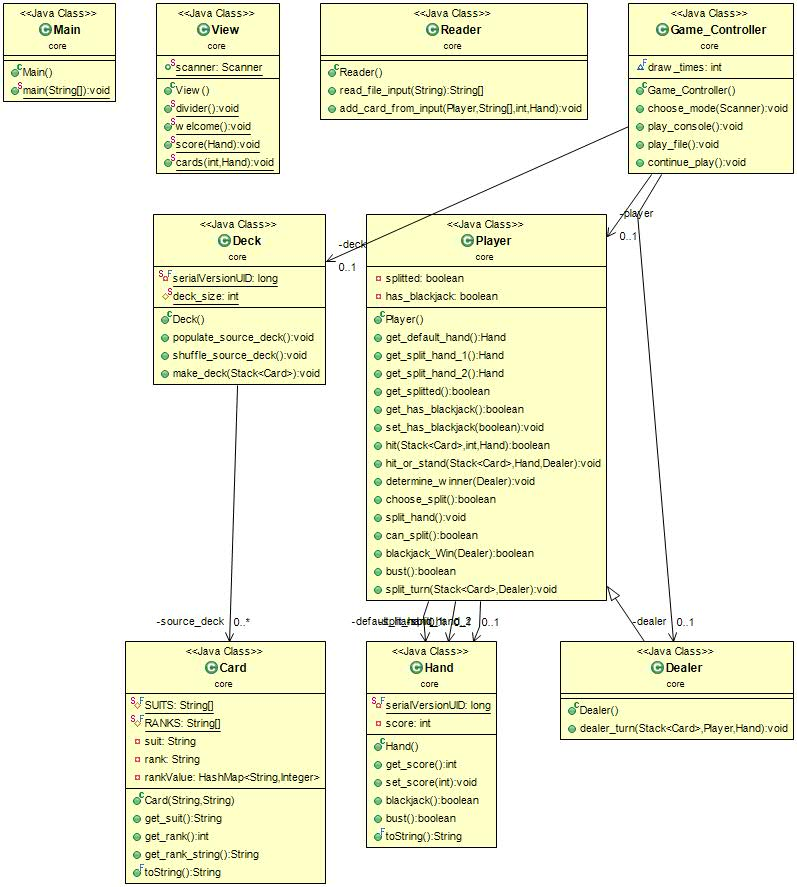
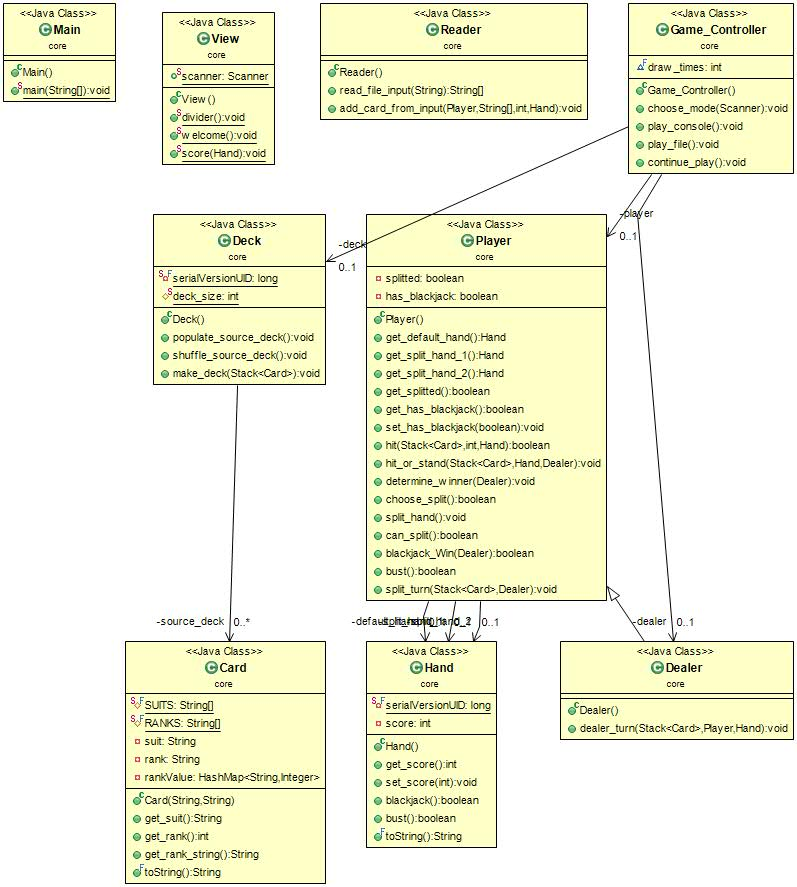
Refactor: View

Changed region(s): [[0.1807, 0.0, 0.3614, 0.2131]]

diff --git a/Maven_Project/src/main/java/core/Game_Controller.java b/Maven_Project/src/main/java/core/Game_Controller.java
@@ -55,14 +55,14 @@ public class Game_Controller {
 
 		// Player setup
 		player.hit(deck, draw_times, player.get_default_hand());
-		View.cards(draw_times, player.get_default_hand());
+		System.out.println(player.get_default_hand());
 
 		// Dealer setup
 		dealer.hit(deck, draw_times, dealer.get_default_hand());
-		View.cards(1, dealer.get_default_hand());
+		System.out.println("Dealer's face-up card is: " + dealer.get_default_hand().get(0).toString());
 
 		if(player.blackjack_Win(dealer)) {
-			View.cards(draw_times, dealer.get_default_hand());
+			System.out.println(dealer.get_default_hand());
 			continue_play();
 		}
 
@@ -77,7 +77,7 @@ public class Game_Controller {
 		else player.hit_or_stand(deck, player.get_default_hand(), dealer);
 
 		// Dealer's turn
-		View.cards(draw_times, dealer.get_default_hand());
+		System.out.println(dealer.get_default_hand());
 		if(dealer.can_split()) {
 			if(dealer.choose_split()) {
 				dealer.split_hand();
@@ -98,9 +98,8 @@ public class Game_Controller {
 	 * @throws FileNotFoundException
 	 * @throws IOException
 	 */
-	public void play_file() throws FileNotFoundException, IOException
-	{
-		// Variables
+	public void play_file() throws FileNotFoundException, IOException {
+		// Local variables
 		boolean stand = false;
 		player = new Player();
 		dealer = new Dealer();
@@ -122,7 +121,7 @@ public class Game_Controller {
 		}
 
 		// Interface output
-		View.cards(draw_times, player.get_default_hand());
+		System.out.println(player.get_default_hand());
 		View.score(player.get_default_hand());
 
 		// Draw dealer's first two cards
@@ -131,7 +130,7 @@ public class Game_Controller {
 		}
 
 		// Interface output
-		View.cards(draw_times, dealer.get_default_hand());
+		System.out.println(dealer.get_default_hand());
 		View.score(dealer.get_default_hand());
 
 		// Go through the rest of the input
@@ -144,24 +143,20 @@ public class Game_Controller {
 				stand = true;
 				continue;
 			}
-			else if(commands[i].charAt(0) == 'H' && commands[i].length() == 1){continue;}
+			else if(commands[i].charAt(0) == 'H' && commands[i].length() == 1) continue;
 			else if(commands[i].charAt(0) == 'D' && commands[i].length() == 1) {
 				// will have to add not to default hand
 				// maybe continue might come in handy
 			}
 
-			if(!stand) {
-				reader.add_card_from_input(player, commands, i, player.get_default_hand());
-			}
-			else {
-				reader.add_card_from_input(dealer, commands, i, dealer.get_default_hand());	
-			}
+			if(!stand) reader.add_card_from_input(player, commands, i, player.get_default_hand());
+			else reader.add_card_from_input(dealer, commands, i, dealer.get_default_hand());	
 		}
 
 		// Interface output
-		View.cards(player.get_default_hand().size(), player.get_default_hand());
+		System.out.println(player.get_default_hand());
 		View.score(player.get_default_hand());
-		View.cards(dealer.get_default_hand().size(), dealer.get_default_hand());
+		System.out.println(dealer.get_default_hand());
 		View.score(dealer.get_default_hand());
 
 		// End game

diff --git a/Maven_Project/src/test/java/core/Tests.java b/Maven_Project/src/test/java/core/Tests.java
@@ -170,7 +170,7 @@ public class Tests extends TestCase {
 		player_0.get_default_hand().add(ace_d);
 		player_0.get_default_hand().add(king_c);
 		
-		View.cards(2, player_0.get_default_hand());
+		System.out.println(player_0.get_default_hand());
 	}
 	
 	/**
@@ -184,7 +184,7 @@ public class Tests extends TestCase {
 		dealer_0.get_default_hand().add(two_s);
 		dealer_0.get_default_hand().add(nine_s);
 		
-		View.cards(1, dealer_0.get_default_hand());
+		System.out.println(dealer_0.get_default_hand());
 	}
 	
 	/**
@@ -242,7 +242,7 @@ public class Tests extends TestCase {
 		player_0.get_default_hand().add(two_s);
 		player_0.get_default_hand().add(six_s);
 		
-		View.cards(player_0.get_default_hand().size(), player_0.get_default_hand());
+		System.out.println(player_0.get_default_hand());
 	}
 	
 	/**
@@ -269,7 +269,7 @@ public class Tests extends TestCase {
 		
 		dealer_0.get_default_hand().add(ace_d);
 		dealer_0.get_default_hand().add(two_s);
-		View.cards(dealer_0.get_default_hand().size(), dealer_0.get_default_hand());
+		System.out.println(dealer_0.get_default_hand());
 		View.score(dealer_0.get_default_hand());
 		
 		deck_maker.make_deck(deck_1);
@@ -289,7 +289,7 @@ public class Tests extends TestCase {
 		dealer_0.get_default_hand().add(ace_d);
 		dealer_0.get_default_hand().add(six_s);
 		
-		View.cards(dealer_0.get_default_hand().size(), dealer_0.get_default_hand());
+		System.out.println(dealer_0.get_default_hand());
 		View.score(dealer_0.get_default_hand());
 		
 		deck_maker.make_deck(deck_1);
@@ -334,7 +334,7 @@ public class Tests extends TestCase {
 		dealer_0.get_default_hand().add(two_s);
 		dealer_0.get_default_hand().add(six_s);
 		
-		View.cards(dealer_0.get_default_hand().size(), dealer_0.get_default_hand());
+		System.out.println(dealer_0.get_default_hand());
 	}
 	
 	/**
@@ -571,7 +571,7 @@ public class Tests extends TestCase {
 		View.divider();
 		
 		player_0.get_default_hand().add(king_c);
-		View.cards(player_0.get_default_hand().size(), player_0.get_default_hand());
+		System.out.println(player_0.get_default_hand());
 		View.score(player_0.get_default_hand());
 		assertEquals(10, player_0.get_default_hand().get_score());
 	}
@@ -585,12 +585,12 @@ public class Tests extends TestCase {
 		View.divider();
 		
 		dealer_0.get_default_hand().add(five_d);
-		View.cards(dealer_0.get_default_hand().size(), dealer_0.get_default_hand());
+		System.out.println(dealer_0.get_default_hand());
 		View.score(dealer_0.get_default_hand());
 		
 		dealer_1.get_default_hand().add(eight_c);
 		dealer_1.get_default_hand().add(ace_d);
-		View.cards(dealer_1.get_default_hand().size(), dealer_1.get_default_hand());
+		System.out.println(dealer_1.get_default_hand());
 		View.score(dealer_1.get_default_hand());
 	}
 	

diff --git a/Maven_Project/src/main/java/core/Player.java b/Maven_Project/src/main/java/core/Player.java
@@ -64,7 +64,7 @@ public class Player {
 
 		while(!hand.bust() && !stand) {
 			// Interface output
-			View.cards(hand.size(), hand);
+			System.out.println(hand);
 			View.score(hand);
 			System.out.print("Hit or stand? (h/s): ");
 			String hit_or_stand = View.scanner.next();
@@ -86,7 +86,7 @@ public class Player {
 			}
 
 			if(hand.bust()) {
-				View.cards(hand.size(), hand);
+				System.out.println(hand);
 				bust();
 			}
 		}
@@ -134,22 +134,22 @@ public class Player {
 
 		// Interface output
 		if(player_highest_score > dealer_highest_score) {
-			System.out.println("Player has [" + player_best_hand.toString() + "] (" + player_highest_score 
-					+ ") points and dealer has [" + dealer_best_hand.toString() + "] (" + dealer_highest_score + 
-					") points. Player wins");
+			System.out.println("Player: " + player_best_hand.toString() + " (" + player_highest_score + ") points.\n" +
+					           "Dealer: " + dealer_best_hand.toString() + " (" + dealer_highest_score + ") points.\n" +
+					           "Winner: Player");
 		}
 		else if(player_highest_score == 0) {
-			System.out.println("Player busted. Dealer wins with [" + dealer_best_hand.toString() 
-			+ "] (" + dealer_highest_score + ") points");
+			System.out.println("Player busted.\n" +
+		                       "Dealer wins: " + dealer_best_hand.toString() + " (" + dealer_highest_score + ") points.");
 		}
 		else if(dealer_highest_score == 0) {
-			System.out.println("Dealer busted. Player wins with [" + player_best_hand.toString() 
-			+ "] (" + player_highest_score + ") points");
+			System.out.println("Dealer busted.\n" + 
+		                       "Player wins: " + player_best_hand.toString() + " (" + player_highest_score + ") points.");
 		}
 		else {
-			System.out.println("Player has [" + player_best_hand.toString() + "] (" + player_highest_score 
-					+ ") points and dealer has [" + dealer_best_hand.toString() + "] (" + dealer_highest_score + 
-					") points. Dealer wins");
+			System.out.println("Player: " + player_best_hand.toString() + " (" + player_highest_score + ") points.\n" + 
+		                       "Dealer: " + dealer_best_hand.toString() + " (" + dealer_highest_score + ") points.\n" + 
+					           "Winner: Dealer");
 		}
 	}
 

diff --git a/Maven_Project/src/main/java/core/View.java b/Maven_Project/src/main/java/core/View.java
@@ -30,14 +30,4 @@ public class View {
 	 */
 	public static void score(Hand hand) { System.out.println("Score is: " + hand.get_score()); }
 
-	/**
-	 * Display specific number of cards in hand.
-	 * @param cards number of cards to show
-	 */
-	public static void cards(int cards, Hand hand) {
-		System.out.print("Cards in hand are: ");
-		for(int i = 0; i < cards; i++) System.out.print(hand.get(i).toString() + " ");
-		System.out.println();
-	}
-
 }

diff --git a/Maven_Project/src/main/java/core/Dealer.java b/Maven_Project/src/main/java/core/Dealer.java
@@ -22,7 +22,7 @@ public class Dealer extends Player {
 		// Draw repeatedly until dealer's score is less than 16 or it has a soft 17
 		while(dealer_hand.get_score() <= 16 || dealer_hand.get_score() == 17 && dealer_hand.get_score() > 0) {
 			hit(deck, 1, dealer_hand);
-			View.cards(dealer_hand.size(), dealer_hand);
+			System.out.println(dealer_hand);
 			bust();
 		}
 	}

diff --git a/Maven_Project/src/main/java/core/Hand.java b/Maven_Project/src/main/java/core/Hand.java
@@ -117,6 +117,6 @@ public class Hand extends ArrayList<Card>{
 			if (builder.length() > 0) builder.append(" ");
 			builder.append(string);
 		}
-		return builder.toString();
+		return "Cards in hand are [" + builder.toString() + "]";
 	}
 }

diff --git a/Maven_Project/src/main/java/core/Card.java b/Maven_Project/src/main/java/core/Card.java
@@ -70,7 +70,7 @@ public class Card {
 		
 		switch(r) {
 		case -1:
-			return "no card";
+			return "No card";
 		case 11: return get_suit() + "J";
 		case 12: return get_suit() + "Q";
 		case 13: return get_suit() + "K";
